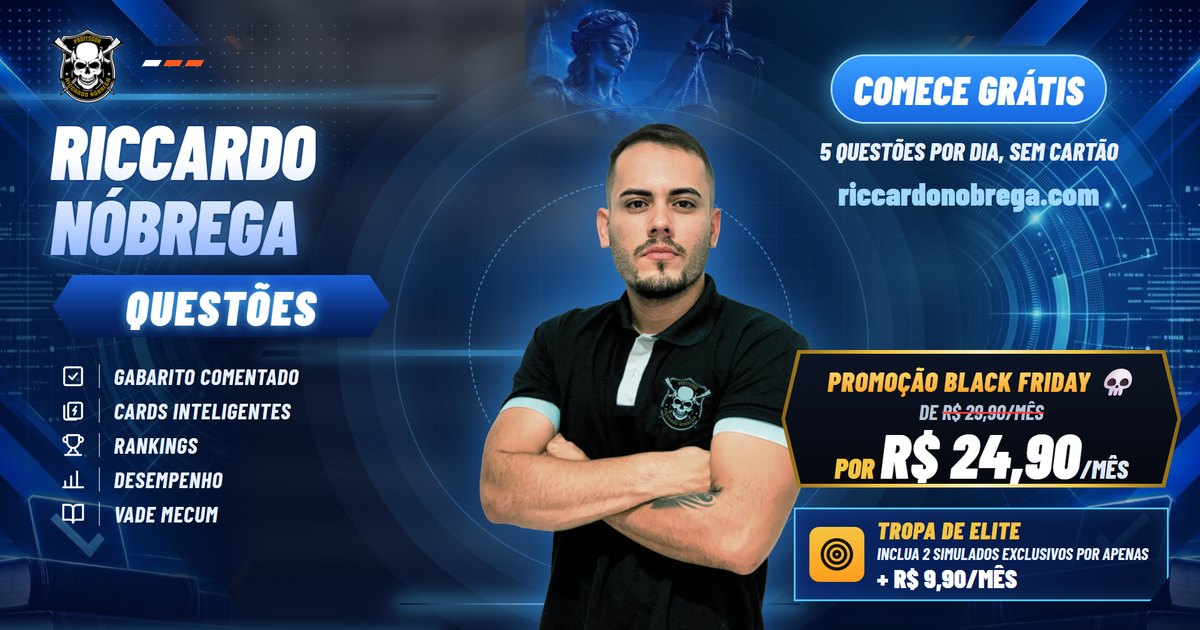
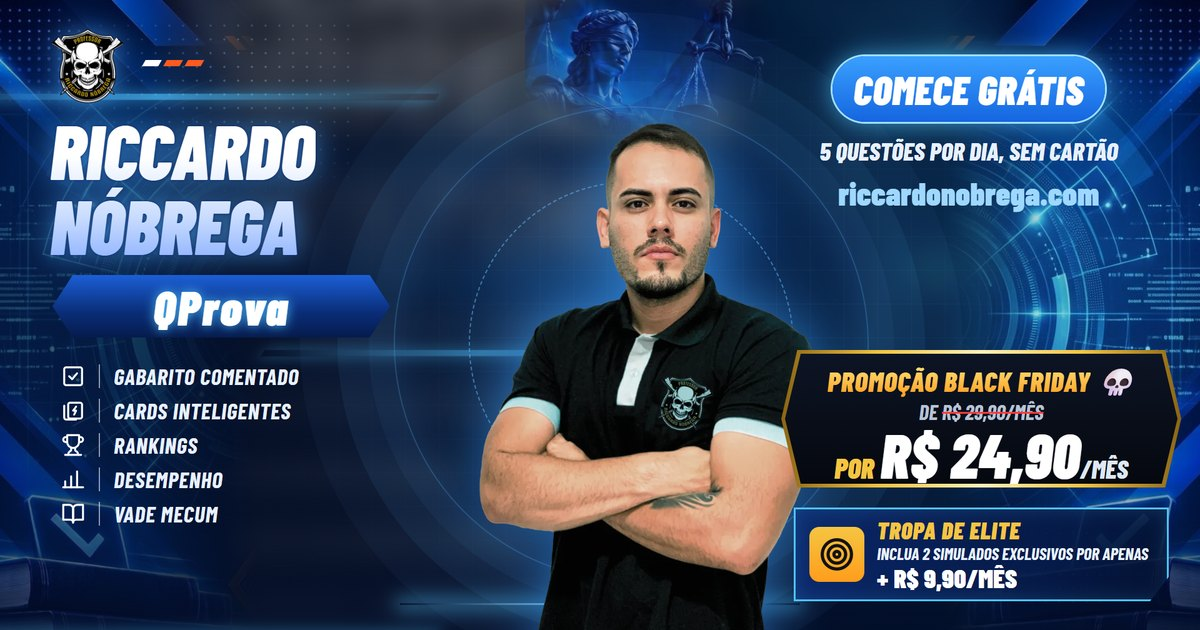
Nome da plataforma: Riccardo Nóbrega QProva (topo das telas em duas linhas, QProva na cor da marca); no ícone do app instalado fica só QProva. Prévia do link com o selo QProva

Changed region(s): [[0.0925, 0.4524, 0.2775, 0.5429]]

diff --git a/src/components/pagina-legal.tsx b/src/components/pagina-legal.tsx
@@ -2,6 +2,7 @@ import Link from "next/link";
 import { Logo } from "@/components/logo";
 import { LEGAL, linkWhatsapp, whatsappFormatado } from "@/lib/legal";
 import { NOME_PLATAFORMA } from "@/lib/marca";
+import { NomeMarca } from "./nome-marca";
 import { BotaoTema } from "@/components/botao-tema";
 
 /** Moldura das páginas públicas de texto (termos e privacidade). */
@@ -11,7 +12,7 @@ export function PaginaLegal({ titulo, children }: { titulo: string; children: Re
       <div className="flex items-center">
         <Link href="/" className="flex items-center gap-2.5 font-extrabold">
           <Logo tamanho={40} />
-          <span>{NOME_PLATAFORMA}</span>
+          <NomeMarca />
         </Link>
         <BotaoTema className="-mr-2 ml-auto" />
       </div>
@@ -39,7 +40,7 @@ export function Responsavel() {
 }
 
 /** Link de atendimento pelo WhatsApp, com a mensagem inicial já escrita. */
-export function ContatoWhatsapp({ mensagem = "Olá! Vim pela plataforma Riccardo Nóbrega." }: { mensagem?: string }) {
+export function ContatoWhatsapp({ mensagem = `Olá! Vim pela plataforma ${NOME_PLATAFORMA}.` }: { mensagem?: string }) {
   return (
     <a href={linkWhatsapp(mensagem)} target="_blank" rel="noopener noreferrer">
       WhatsApp {whatsappFormatado()}

diff --git a/src/app/page.tsx b/src/app/page.tsx
@@ -7,6 +7,7 @@ import { BotaoTema } from "@/components/botao-tema";
 import { Logo } from "@/components/logo";
 import { variantesBotao } from "@/components/ui/button";
 import { NOME_PLATAFORMA } from "@/lib/marca";
+import { NomeMarca } from "@/components/nome-marca";
 import {
   ADICIONAL_ELITE,
   ASSINATURA,
@@ -61,7 +62,7 @@ function Topo() {
       <div className="mx-auto flex h-16 max-w-6xl items-center justify-between gap-3 px-4 sm:px-6">
         <Link href="/" className="flex items-center gap-2.5 font-extrabold">
           <Logo tamanho={34} />
-          <span className="hidden sm:inline">{NOME_PLATAFORMA}</span>
+          <NomeMarca className="hidden sm:flex" />
         </Link>
         <nav className="flex items-center gap-2">
           <BotaoTema />
@@ -496,7 +497,7 @@ function Rodape() {
     <footer className="border-t border-borda">
       <div className="mx-auto flex max-w-6xl flex-col items-center justify-between gap-3 px-4 py-8 text-sm text-suave sm:flex-row sm:px-6">
         <p>
-          © {new Date().getFullYear()} Professor {NOME_PLATAFORMA}
+          © {new Date().getFullYear()} {NOME_PLATAFORMA}
         </p>
         <nav className="flex gap-4">
           <Link href="/termos" className="hover:text-texto">

diff --git a/src/app/(legal)/privacidade/page.tsx b/src/app/(legal)/privacidade/page.tsx
@@ -18,7 +18,7 @@ export default function PaginaPrivacidade() {
       <h2>1. Quem é o responsável</h2>
       <p>
         O responsável pelo tratamento dos seus dados (controlador) é <Responsavel />. Dúvidas e pedidos sobre seus
-        dados: <ContatoWhatsapp mensagem="Olá! Tenho um pedido sobre meus dados na plataforma Riccardo Nóbrega." />.
+        dados: <ContatoWhatsapp mensagem="Olá! Tenho um pedido sobre meus dados na plataforma Riccardo Nóbrega QProva." />.
       </p>
 
       <h2>2. Quais dados coletamos</h2>
@@ -116,7 +116,7 @@ export default function PaginaPrivacidade() {
         </li>
         <li>
           Pedir informações, correções ou qualquer outro direito do art. 18 da LGPD pelo{" "}
-          <ContatoWhatsapp mensagem="Olá! Tenho um pedido sobre meus dados na plataforma Riccardo Nóbrega." />. Respondemos em até
+          <ContatoWhatsapp mensagem="Olá! Tenho um pedido sobre meus dados na plataforma Riccardo Nóbrega QProva." />. Respondemos em até
           15 dias.
         </li>
         <li>Reclamar à Autoridade Nacional de Proteção de Dados (ANPD).</li>

diff --git a/src/components/formulario-acesso.tsx b/src/components/formulario-acesso.tsx
@@ -8,7 +8,7 @@ import { CampoSenha, classeCampo } from "@/components/campo-senha";
 import { Button } from "@/components/ui/button";
 import { authClient } from "@/lib/auth-client";
 import { traduzirErroAuth } from "@/lib/erros-auth";
-import { NOME_PLATAFORMA } from "@/lib/marca";
+import { NomeMarca } from "./nome-marca";
 import { BotaoTema } from "@/components/botao-tema";
 
 /** Moldura comum das telas públicas. */
@@ -28,7 +28,7 @@ export function CaixaAcesso({
       <div className="w-full max-w-[380px] space-y-6">
         <div className="flex items-center gap-2.5 font-extrabold">
           <Logo tamanho={44} />
-          <span>{NOME_PLATAFORMA}</span>
+          <NomeMarca />
           <BotaoTema className="-mr-2 ml-auto" />
         </div>
         <div>

diff --git a/src/lib/planos.ts b/src/lib/planos.ts
@@ -5,7 +5,7 @@ export const ASSINATURA = {
   /** Valor cobrado todo mês, em reais. */
   valor: 29.9,
   /** Aparece no checkout, no painel do Mercado Pago e na fatura do aluno. */
-  descricao: "Riccardo Nóbrega - Assinatura mensal",
+  descricao: "Riccardo Nóbrega QProva - Assinatura mensal",
 } as const;
 
 /** Tropa de Elite: os simulados do mês, vendidos como adicional do Basic. O aluno paga a soma numa cobrança só. */
@@ -15,7 +15,7 @@ export const ADICIONAL_ELITE = 9.9;
 export const ELITE = {
   nome: "Tropa de Elite",
   valor: somar(ASSINATURA.valor, ADICIONAL_ELITE),
-  descricao: "Riccardo Nóbrega - Tropa de Elite",
+  descricao: "Riccardo Nóbrega QProva - Tropa de Elite",
 } as const;
 
 export type Plano = "basico" | "elite";

diff --git a/src/app/layout.tsx b/src/app/layout.tsx
@@ -29,9 +29,9 @@ export const metadata: Metadata = {
     url: "/",
     locale: "pt_BR",
     siteName: NOME_PLATAFORMA,
-    title: `${NOME_PLATAFORMA} Questões | Black Friday: R$ 24,90/mês`,
+    title: `${NOME_PLATAFORMA} | Black Friday: R$ 24,90/mês`,
     description: "Questões com gabarito comentado, cards inteligentes, ranking e Vade Mecum. Comece grátis: 5 questões por dia.",
-    images: [{ url: "/og-black-friday.jpg", width: 1200, height: 630, alt: `${NOME_PLATAFORMA} Questões: Black Friday` }],
+    images: [{ url: "/og-black-friday.jpg", width: 1200, height: 630, alt: `${NOME_PLATAFORMA}: Black Friday` }],
   },
   twitter: { card: "summary_large_image" },
 };

diff --git a/src/components/navegacao.tsx b/src/components/navegacao.tsx
@@ -7,6 +7,7 @@ import { usePathname, useRouter } from "next/navigation";
 import { authClient } from "@/lib/auth-client";
 import { cn } from "@/lib/utils";
 import { NOME_PLATAFORMA } from "@/lib/marca";
+import { NomeMarca } from "./nome-marca";
 import { BotaoTema } from "@/components/botao-tema";
 
 type ItemNav = { href: string; rotulo: string; Icone: LucideIcon; ativoEm: string[] };
@@ -34,7 +35,7 @@ function Marca() {
   return (
     <Link href="/estudar" className="flex min-w-0 items-center gap-2.5 font-extrabold">
       <Logo tamanho={32} />
-      <span className="truncate text-[15px]">{NOME_PLATAFORMA}</span>
+      <NomeMarca />
     </Link>
   );
 }

diff --git a/src/components/nome-marca.tsx b/src/components/nome-marca.tsx
@@ -1,0 +1,12 @@
+import { NOME_PRODUTO, NOME_PROFESSOR } from "@/lib/marca";
+import { cn } from "@/lib/utils";
+
+/** Nome da plataforma em duas linhas: o professor em destaque e o QProva na cor da marca. */
+export function NomeMarca({ className }: { className?: string }) {
+  return (
+    <span className={cn("flex min-w-0 flex-col leading-none", className)}>
+      <span className="truncate text-[13px] font-extrabold uppercase tracking-[.02em]">{NOME_PROFESSOR}</span>
+      <span className="mt-0.5 text-[17px] font-extrabold tracking-[-.01em] text-marca-clara">{NOME_PRODUTO}</span>
+    </span>
+  );
+}

diff --git a/src/app/(legal)/termos/page.tsx b/src/app/(legal)/termos/page.tsx
@@ -43,7 +43,7 @@ export default function PaginaTermos() {
         </li>
         <li>
           Trabalhamos para que gabaritos e comentários estejam corretos, mas pode haver erros. Encontrou um? Avise
-          pelo <ContatoWhatsapp mensagem="Olá! Encontrei um erro numa questão da plataforma Riccardo Nóbrega." />.
+          pelo <ContatoWhatsapp mensagem="Olá! Encontrei um erro numa questão da plataforma Riccardo Nóbrega QProva." />.
         </li>
         <li>
           A plataforma é um apoio ao estudo: não substitui o edital nem a legislação oficial e não garante aprovação

diff --git a/src/lib/marca.ts b/src/lib/marca.ts
@@ -1,4 +1,7 @@
 // Nome da plataforma. Aparece no topo das telas, na aba do navegador, no app instalado (PWA)
 // e nos e-mails. Mudou? Troque aqui e em public/offline.html (página estática).
-export const NOME_PLATAFORMA = "Riccardo Nóbrega";
-export const NOME_CURTO = "Riccardo Nóbrega";
+export const NOME_PROFESSOR = "Riccardo Nóbrega";
+export const NOME_PRODUTO = "QProva";
+export const NOME_PLATAFORMA = `${NOME_PROFESSOR} ${NOME_PRODUTO}`;
+/** Nome embaixo do ícone no celular: curto, para não ser cortado. */
+export const NOME_CURTO = NOME_PRODUTO;

diff --git a/public/offline.html b/public/offline.html
@@ -4,7 +4,7 @@
     <meta charset="utf-8" />
     <meta name="viewport" content="width=device-width, initial-scale=1" />
     <meta name="theme-color" content="#262626" />
-    <title>Sem internet · Riccardo Nóbrega</title>
+    <title>Sem internet · Riccardo Nóbrega QProva</title>
     <link rel="icon" href="/icones/favicon-48.png" />
     <style>
       /* Página estática (mostrada pelo service worker quando a rede cai). Cores = tokens de globals.css. */
